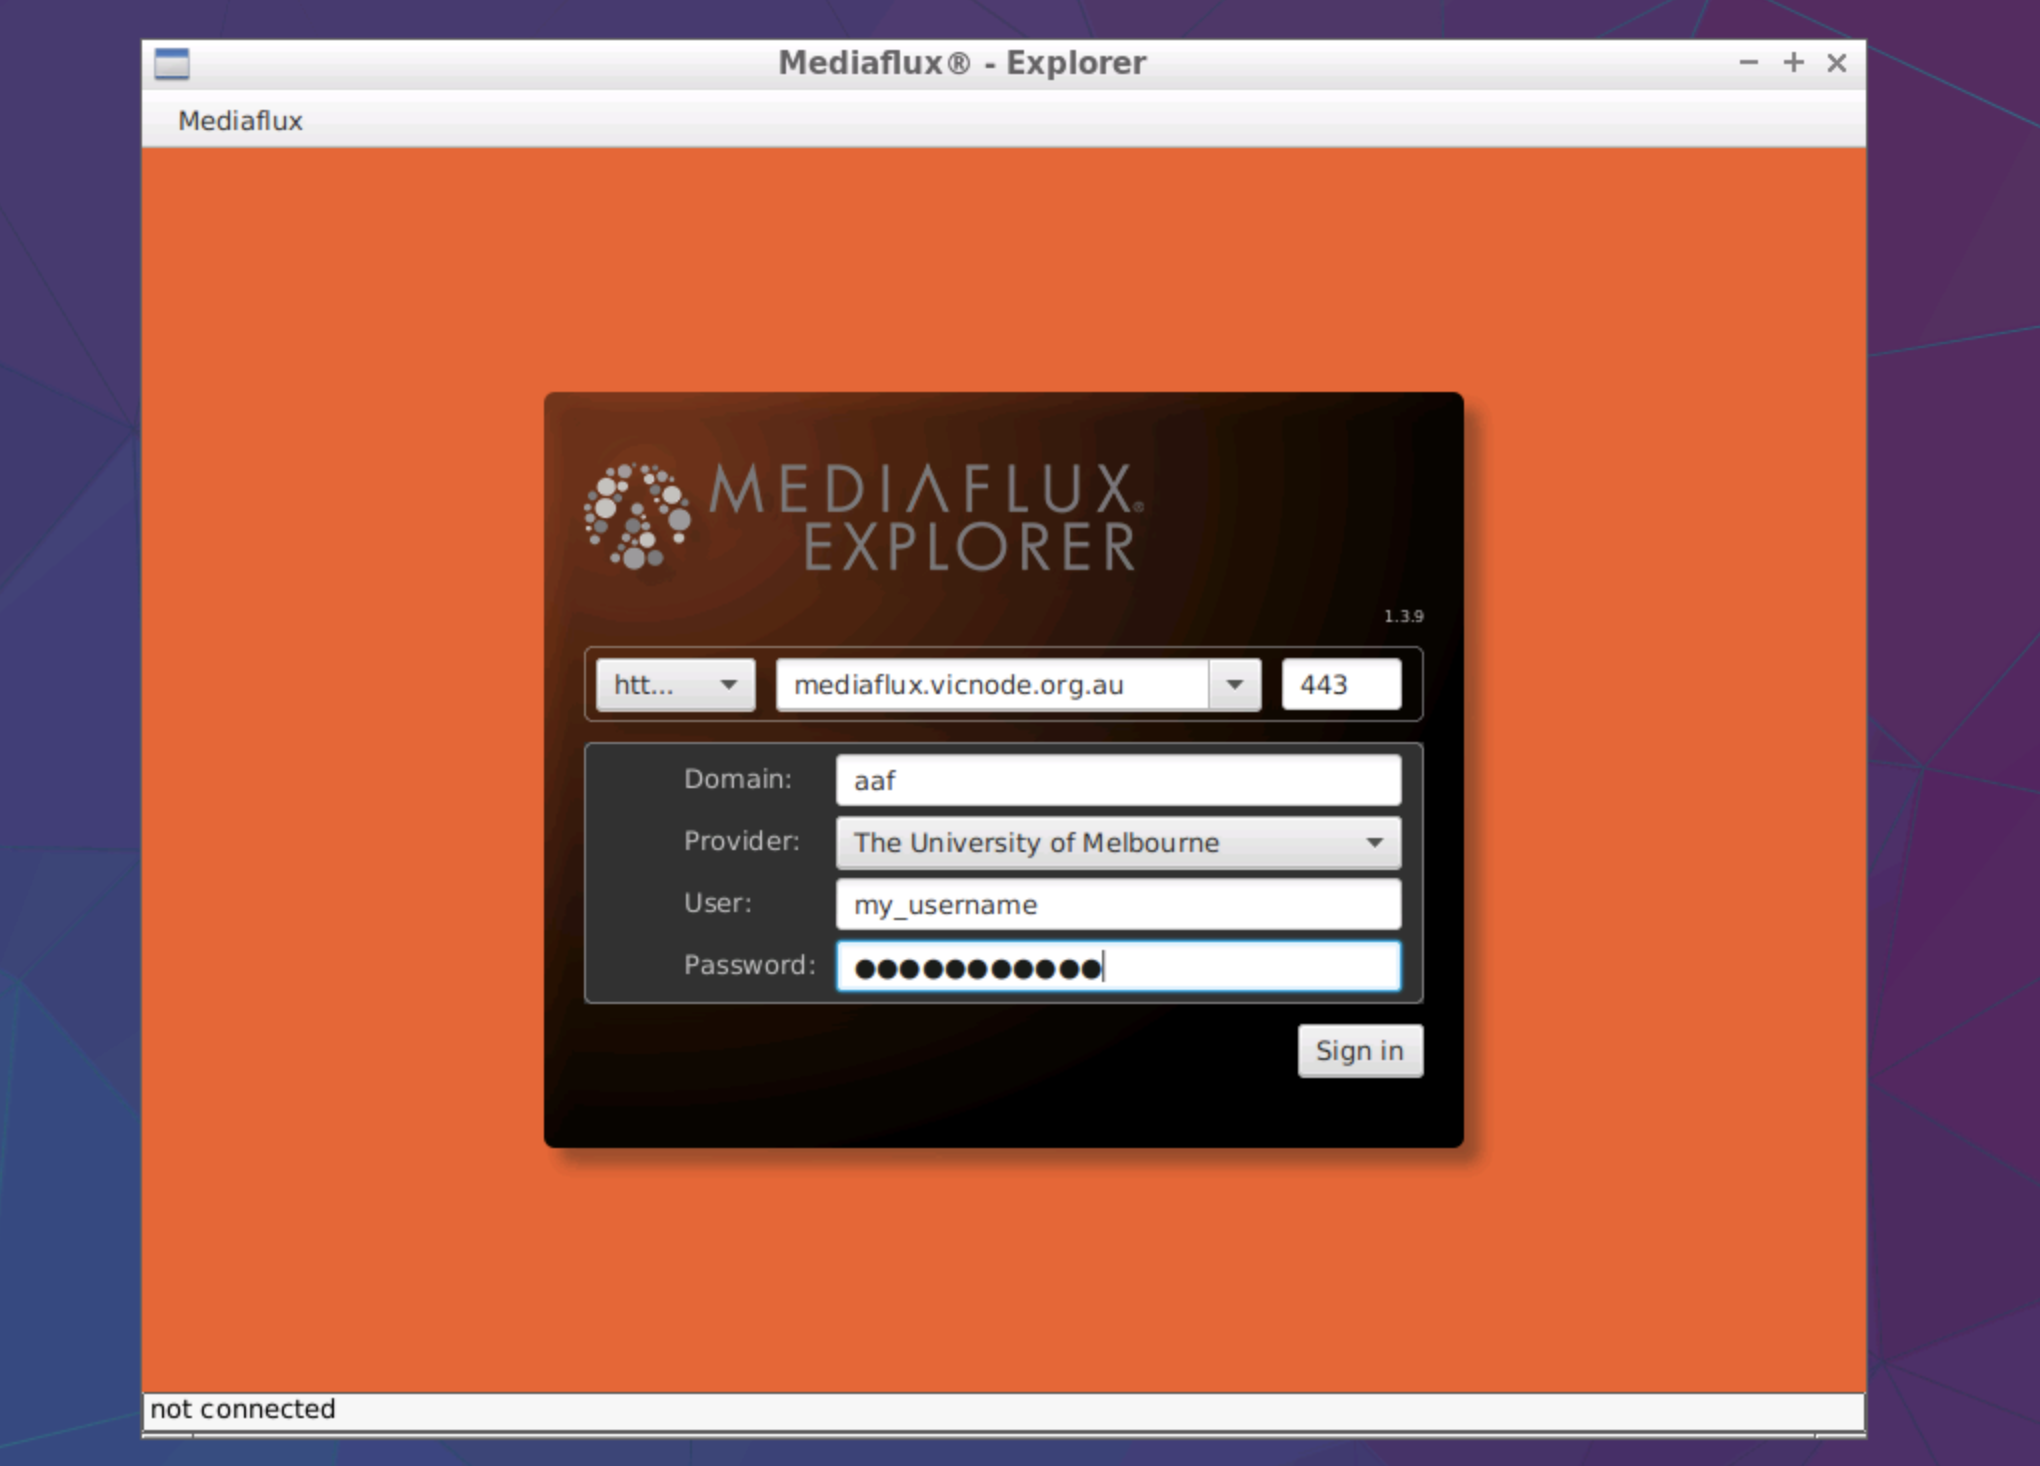
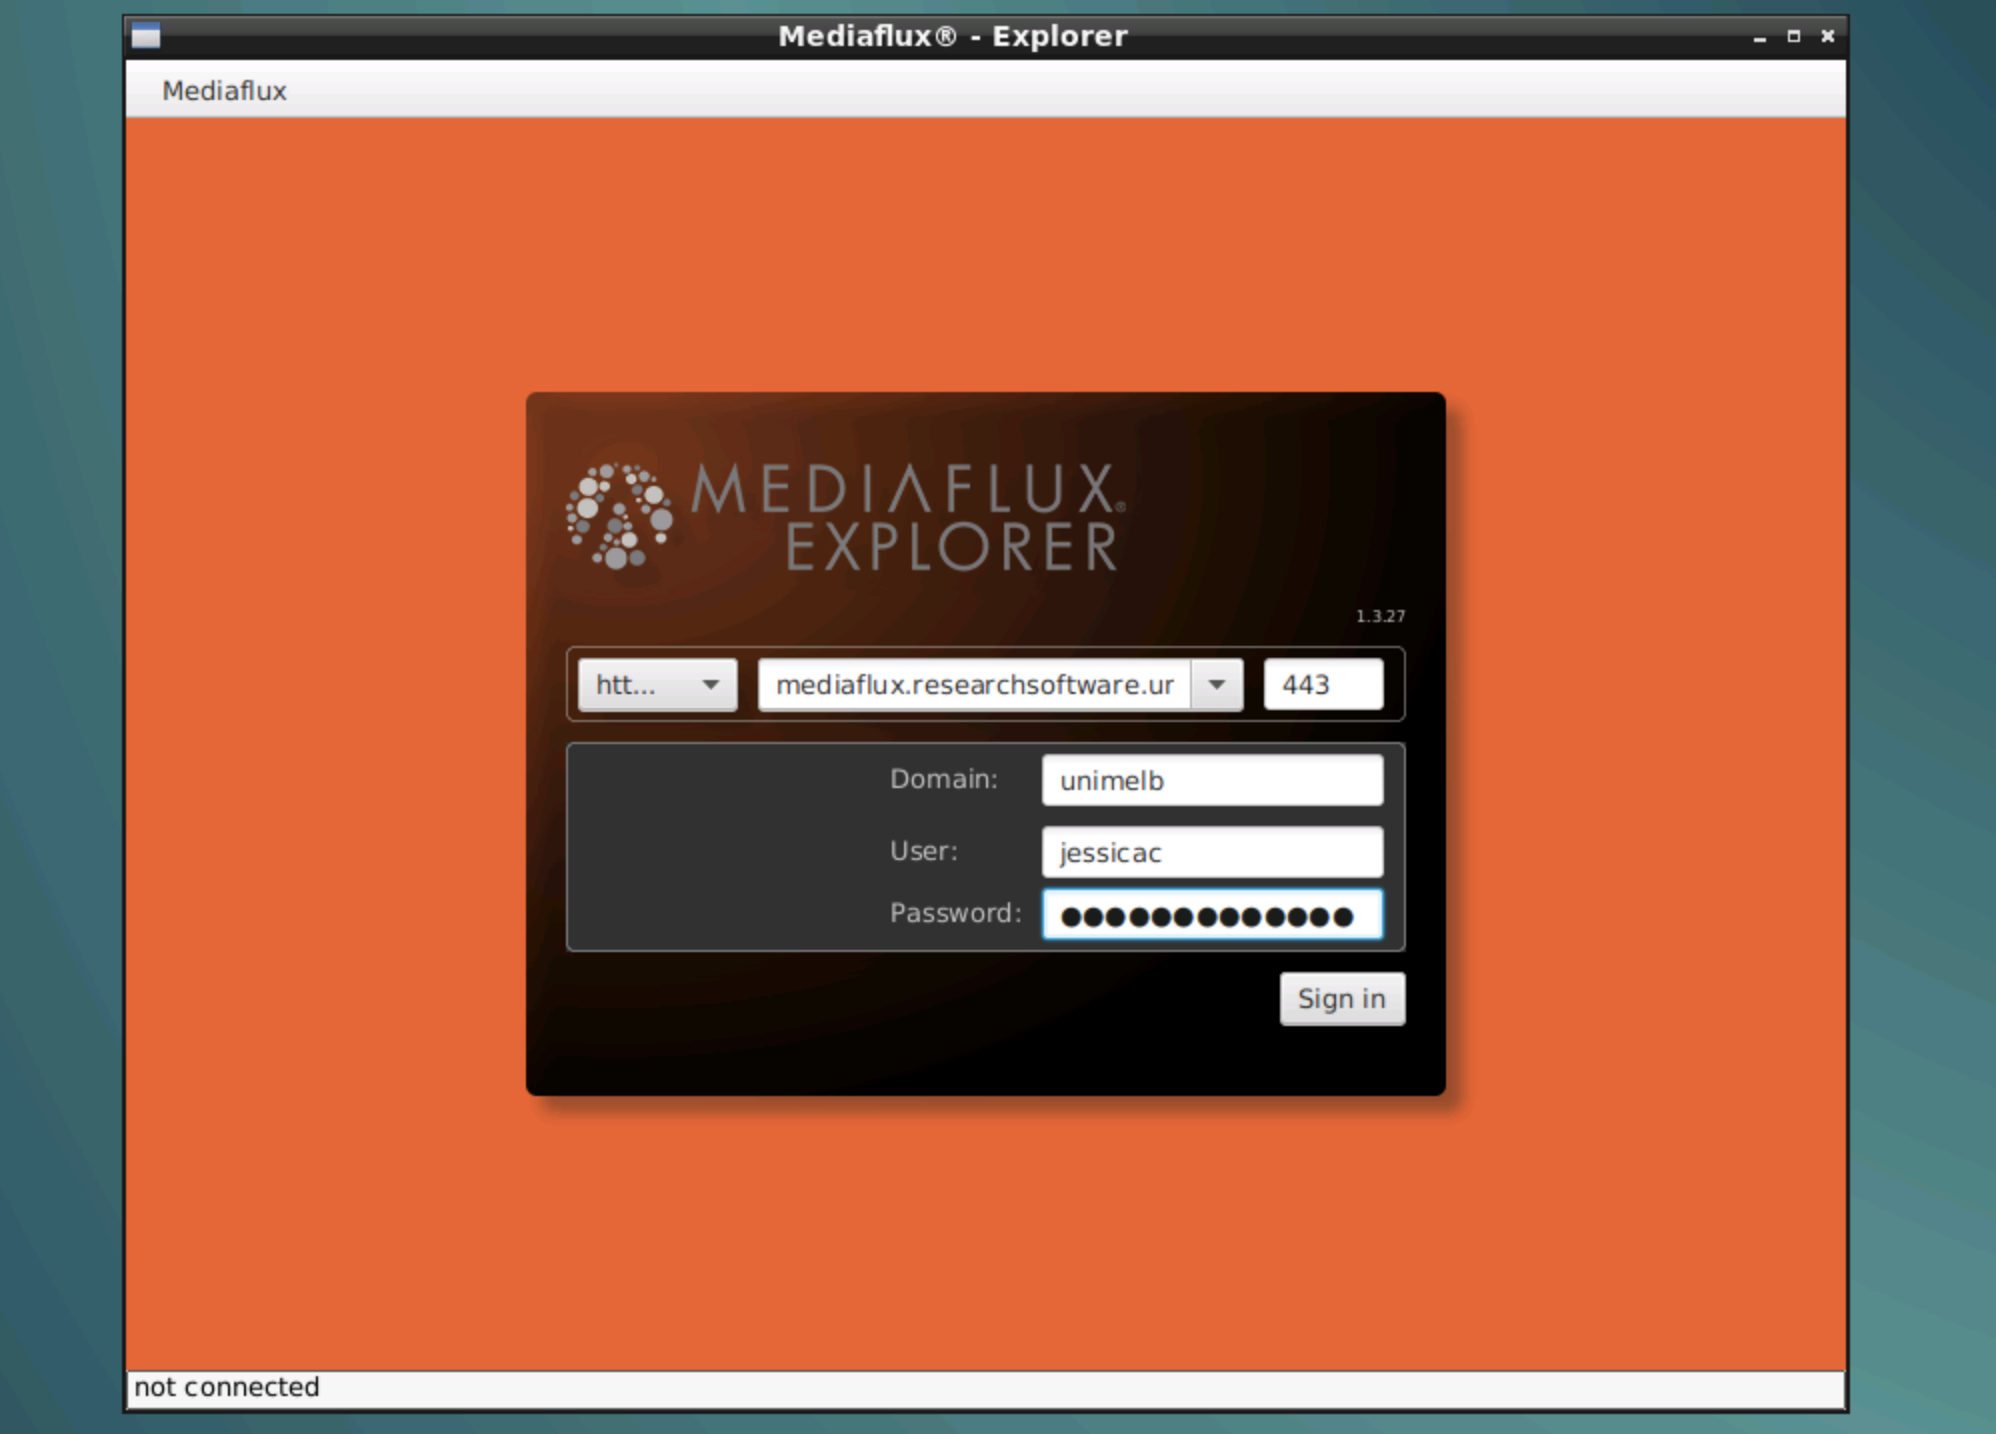
Update mozzie IP address and mediaflux authentication

diff --git a/content/metadata-documentation/mediaflux-explorer.md b/content/metadata-documentation/mediaflux-explorer.md
@@ -10,7 +10,7 @@ description: 'How to use Mediaflux Explorer.'
 ---
 
 The Mediaflux service can be accessed via a Java applet (Mediaflux Explorer) or
-via your web browser with [Mediaflux Desktop](https://mediaflux.vicnode.org.au/desktop/).
+via your web browser with [Mediaflux Desktop](https://mediaflux.researchsoftware.unimelb.edu.au/desktop/).
 These clients allow you to view your data, transfer data, and edit metadata.
 
 The Mediaflux Explorer Java applet should be used when transferring data and is
@@ -20,7 +20,7 @@ via the browser is unreliable and slow, therefore Mediaflux Desktop should not b
 used for uploading.
 
 Assuming you have your data stored on one of our servers
-([`mozzie`](http://45.113.232.220) or [`rescue`](http://45.113.233.108/)) open 
+([`mozzie`](http://45.113.235.8) or [`rescue`](http://45.113.233.108/)) open 
 your preferred internet browser and enter the IP address of the server into
 the navigation bar.
 
@@ -40,15 +40,13 @@ including a 'Mediaflux' icon. Double click it to launch Mediaflux Explorer.
 
 ![](../static/lubuntu_desktop.png)
 
-Select the HTTPS protocol in the dropdown menu and enter `mediaflux.vicnode.org.au`
+Select the HTTPS protocol in the dropdown menu and enter 
+`mediaflux.researchsoftware.unimelb.edu.au`
 as the host. The port should automatically change to `443`.
 
-In the 'Domain' field enter `aaf` and then move to the next field.
-A dropdown menu should then appear below the 'Domain' field (if it doesn't show
-up immediately, wait a few seconds). Select `The University of Melbourne` from
-the listed institutions.
-
-Finally, enter your unimelb username (not your email) and password to sign in.
+In the 'Domain' field, enter `unimelb` if you have a unimelb staff account or
+`student` if you have a unimelb student account. Then enter your unimelb
+username (not your email) and password to sign in.
 
 <img src="../static/mediaflux_login.png" width=80%>
 

diff --git a/content/metadata-documentation/mediaflux-sftp.md b/content/metadata-documentation/mediaflux-sftp.md
@@ -12,7 +12,7 @@ description: 'Using sFTP to upload and download files from Mediaflux'
 
 -----
 
-### Command-line sFTP
+### Command line sFTP
 
 If you want to transfer files between the PEARG servers (e.g. mozzie) and
 Mediaflux, the easiest way to do this is to use sFTP on the command line.
@@ -20,7 +20,7 @@ Mediaflux, the easiest way to do this is to use sFTP on the command line.
 If you're transferring large files, I recommend you use sFTP in a screen
 session so you can detach it and leave it running in the background.
 
-#### Downloading files from mediaflux
+#### Downloading files from Mediaflux
 
 Let's say I'm interested in a particular tarball which is located at   `/Volumes/proj-hoffmann_data-1128.4.49/data/QA_library3_DPS_INC_KL.tar`  
 in Mediaflux and want to download it to my current working directory.

diff --git a/content/metadata-documentation/sample_map.md b/content/metadata-documentation/sample_map.md
@@ -38,7 +38,7 @@ password is incorrect, just lead to a 'Page Not found' page.
 	function loadPage(pwd) {
 		var hash = pwd;
 		hash = Sha1.hash(pwd);
-		var url = "http://45.113.232.220/secret/" + hash + "/sample_map.html";
+		var url = "http://45.113.235.8/secret/" + hash + "/sample_map.html";
     window.open(url, '_blank');
 	}
 	
